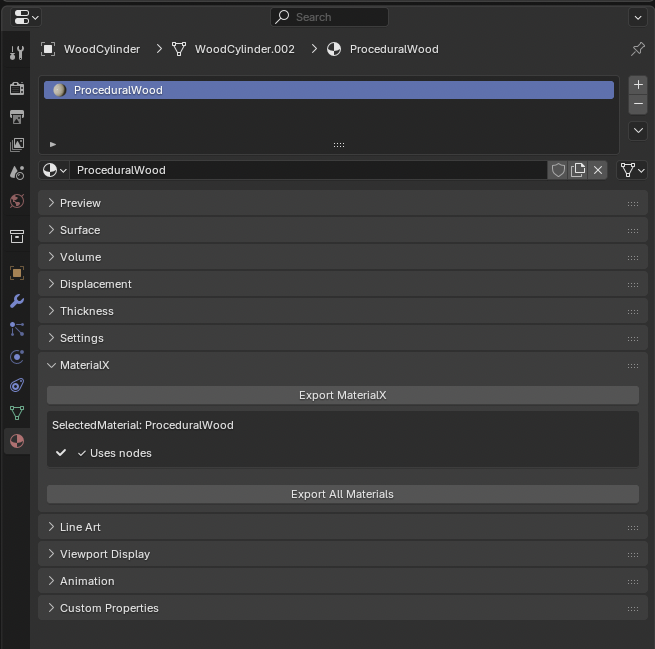
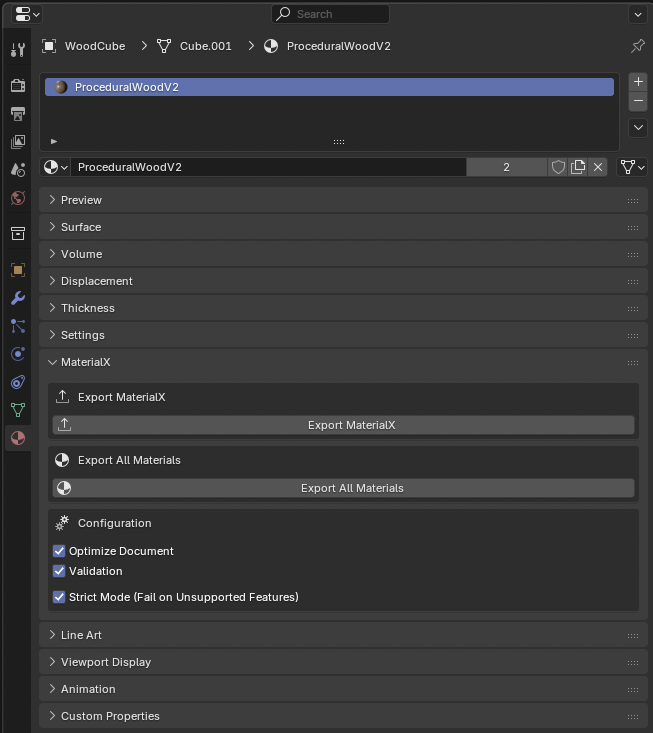
simplify GUI options.

Changed region(s): [[0.0, 0.3082, 0.9801, 0.9861], [0.0, 0.0, 1.0, 0.3698]]

diff --git a/materialx_addon/__init__.py b/materialx_addon/__init__.py
@@ -107,9 +107,10 @@ class MATERIALX_OT_export(Operator):
                 'export_textures': self.export_textures,
                 'copy_textures': self.copy_textures,
                 'relative_paths': self.relative_paths,
-                'optimize_document': True,
-                'advanced_validation': True,
-                'performance_monitoring': True
+                'optimize_document': context.scene.materialx_optimize_document,
+                'advanced_validation': context.scene.materialx_advanced_validation,
+                'performance_monitoring': True,  # Always enabled
+                'strict_mode': context.scene.materialx_strict_mode
             }
             
             result = blender_materialx_exporter.export_material_to_materialx(
@@ -253,6 +254,10 @@ class MATERIALX_OT_export_all(Operator):
             'copy_textures': self.copy_textures,
             'relative_paths': self.relative_paths,
             'materialx_version': MATERIALX_VERSION,
+            'optimize_document': context.scene.materialx_optimize_document,
+            'advanced_validation': context.scene.materialx_advanced_validation,
+            'performance_monitoring': True,  # Always enabled
+            'strict_mode': context.scene.materialx_strict_mode
         }
 
         logger.info(f"Export options: {options}")
@@ -336,13 +341,11 @@ class MATERIALX_PT_panel(Panel):
         
         # Core settings
         col.prop(context.scene, 'materialx_optimize_document', text="Optimize Document")
-        col.prop(context.scene, 'materialx_advanced_validation', text="Advanced Validation")
-        col.prop(context.scene, 'materialx_performance_monitoring', text="Performance Monitoring")
+        col.prop(context.scene, 'materialx_advanced_validation', text="Validation")
         
         # Error handling
         col.separator()
-        col.prop(context.scene, 'materialx_strict_mode', text="Strict Mode")
-        col.prop(context.scene, 'materialx_continue_on_unsupported_nodes', text="Continue on Unsupported Nodes")
+        col.prop(context.scene, 'materialx_strict_mode', text="Strict Mode (Fail on Unsupported Features)")
         
         # Status information
         if hasattr(context.scene, 'materialx_last_export_result'):
@@ -398,32 +401,20 @@ class MATERIALX_PT_panel(Panel):
 # Add properties to scene for configuration
 def register_properties():
     bpy.types.Scene.materialx_optimize_document = BoolProperty(
-        name="Optimize Document",
+        name="Optimize",
         description="Optimize MaterialX document by removing unused nodes",
         default=True
     )
     
     bpy.types.Scene.materialx_advanced_validation = BoolProperty(
-        name="Advanced Validation",
+        name="Validation",
         description="Enable comprehensive MaterialX document validation",
         default=True
     )
     
-    bpy.types.Scene.materialx_performance_monitoring = BoolProperty(
-        name="Performance Monitoring",
-        description="Track performance metrics during export",
-        default=True
-    )
-    
     bpy.types.Scene.materialx_strict_mode = BoolProperty(
-        name="Strict Mode",
-        description="Fail export on any error (not just unsupported nodes)",
-        default=False
-    )
-    
-    bpy.types.Scene.materialx_continue_on_unsupported_nodes = BoolProperty(
-        name="Continue on Unsupported Nodes",
-        description="Continue export even when encountering unsupported nodes",
+        name="Strict Mode (Fail on Unsupported Features)",
+        description="Fail export on any unsupported features or errors",
         default=True
     )
     
@@ -438,9 +429,7 @@ def register_properties():
 def unregister_properties():
     del bpy.types.Scene.materialx_optimize_document
     del bpy.types.Scene.materialx_advanced_validation
-    del bpy.types.Scene.materialx_performance_monitoring
     del bpy.types.Scene.materialx_strict_mode
-    del bpy.types.Scene.materialx_continue_on_unsupported_nodes
     del bpy.types.Scene.materialx_last_export_result
 
 classes = (

diff --git a/materialx_addon/blender_materialx_exporter.py b/materialx_addon/blender_materialx_exporter.py
@@ -811,6 +811,7 @@ class MaterialXExporter:
         self.copy_textures = self.options.get('copy_textures', True)
         self.relative_paths = True  # Always use relative paths for this workflow
         self.strict_mode = options.get('strict_mode', True)  # Default to strict mode
+        self.logger.info(f"Strict mode setting: {self.strict_mode}")
         
         # Phase 3 enhancements
         self.optimize_document = self.options.get('optimize_document', True)
@@ -893,9 +894,20 @@ class MaterialXExporter:
                     self.logger.error("💡 Suggestion: Add a Principled BSDF node to your material and connect it to the Material Output.")
                     self.logger.error("💡 The Principled BSDF is the standard shader for physically-based rendering in Blender.")
                 
-                result["error"] = "No Principled BSDF node found"
-                result["unsupported_nodes"] = self.unsupported_nodes
-                return result
+                # Check if we should continue despite unsupported nodes
+                print(f"DEBUG: Checking strict mode: {self.strict_mode}")
+                self.logger.info(f"Checking strict mode: {self.strict_mode}")
+                if self.strict_mode:
+                    print("DEBUG: Strict mode enabled - failing export")
+                    self.logger.info("Strict mode enabled - failing export")
+                    result["error"] = "No Principled BSDF node found"
+                    result["unsupported_nodes"] = self.unsupported_nodes
+                    return result
+                else:
+                    # Continue with a basic material export
+                    print("DEBUG: Strict mode disabled - continuing export")
+                    self.logger.warning("⚠ Continuing export despite unsupported nodes...")
+                    return self._export_basic_material()
             
             self.logger.info(f"Found Principled BSDF node: {principled_node.name}")
             self.builder = MaterialXBuilder(self.material.name, self.logger, self.materialx_version)
@@ -978,9 +990,13 @@ class MaterialXExporter:
         
         return result
     
-    def _export_basic_material(self) -> bool:
+    def _export_basic_material(self) -> dict:
         """Export a basic material without nodes."""
+        self.logger.info("Creating basic MaterialX document for unsupported material...")
+        self.logger.info(f"Strict mode in _export_basic_material: {self.strict_mode}")
+        
         self.builder = MaterialXBuilder(self.material.name, self.logger, self.materialx_version)
+        self.builder.exporter = self
         
         # Create a basic standard_surface shader outside the nodegraph
         surface_node = self.builder.add_surface_shader_node("standard_surface", "surface_basic")
@@ -998,7 +1014,16 @@ class MaterialXExporter:
         
         self.builder.set_material_surface(surface_node)
         self._write_file()
-        return True
+        
+        # Return success result with unsupported nodes info
+        result = {
+            "success": True,
+            "unsupported_nodes": self.unsupported_nodes,
+            "output_path": str(self.output_path),
+            "warning": "Material exported with basic surface due to unsupported nodes"
+        }
+        
+        return result
     
     def _find_principled_bsdf_node(self) -> Optional[bpy.types.Node]:
         """Find the Principled BSDF node in the material."""
@@ -1236,6 +1261,9 @@ def export_material_to_materialx(material: bpy.types.Material,
     logger.info(f"Material: {material.name if material else 'None'}")
     logger.info(f"Output path: {output_path}")
     logger.info(f"Options: {options}")
+    logger.info(f"Options type: {type(options)}")
+    if options:
+        logger.info(f"strict_mode in options: {options.get('strict_mode', 'NOT_FOUND')}")
     try:
         exporter = MaterialXExporter(material, output_path, logger, options)
         logger.info("MaterialXExporter instance created successfully")

diff --git a/materialx_addon/materialx_library_core.py b/materialx_addon/materialx_library_core.py
@@ -68,8 +68,7 @@ class MaterialXConfig:
         'format_output': True,
         
         # Error handling
-        'strict_mode': False,
-        'continue_on_unsupported_nodes': True,
+        'strict_mode': True,
         'max_errors': 10,
         
         # Performance settings

diff --git a/README.md b/README.md
@@ -13,6 +13,8 @@ A professional-grade Blender addon to export Blender materials to MaterialX (.mt
 - **Performance Monitoring**: Real-time performance tracking and optimization
 - **Configuration Panel**: In-UI configuration for export settings
 
+![Blender UI](BlenderScreenshot.png)
+
 ## 📦 Installation
 
 ### Manual Installation
